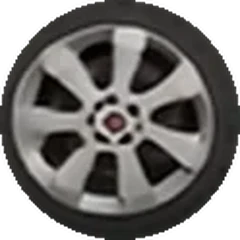
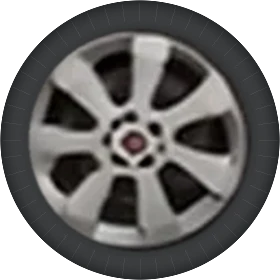
Perfect ronde wielen: getekende band rond de echte velg
Claude-Session: https://claude.ai/code/session_01B7gcsraQbhe45qgw4YKxCB

diff --git a/src/config.ts b/src/config.ts
@@ -62,15 +62,15 @@ export const VEHICLES: Record<VehicleId, VehicleInfo> = {
     photo: {
       body: "/img/doblo-body.webp", ratio: 1400 / 632,
       wheels: [
-        { src: "/img/doblo-wheel-rear.webp", x: 15.47, y: 82.69, r: 6.7 },
-        { src: "/img/doblo-wheel-front.webp", x: 86.44, y: 78.13, r: 6.7 },
+        { src: "/img/doblo-wheel-rear.webp", x: 15.47, y: 82.69, r: 6.9 },
+        { src: "/img/doblo-wheel-front.webp", x: 86.44, y: 78.13, r: 6.9 },
       ],
     },
     toon: {
       body: "/img/doblo-toon-body.webp", ratio: 976 / 420,
       wheels: [
-        { src: "/img/doblo-toon-wheel-rear.webp", x: 16.29, y: 84.23, r: 6.4 },
-        { src: "/img/doblo-toon-wheel-front.webp", x: 85.39, y: 79.86, r: 6.4 },
+        { src: "/img/doblo-toon-wheel-rear.webp", x: 16.29, y: 84.23, r: 6.6 },
+        { src: "/img/doblo-toon-wheel-front.webp", x: 85.39, y: 79.86, r: 6.6 },
       ],
     },
   },
